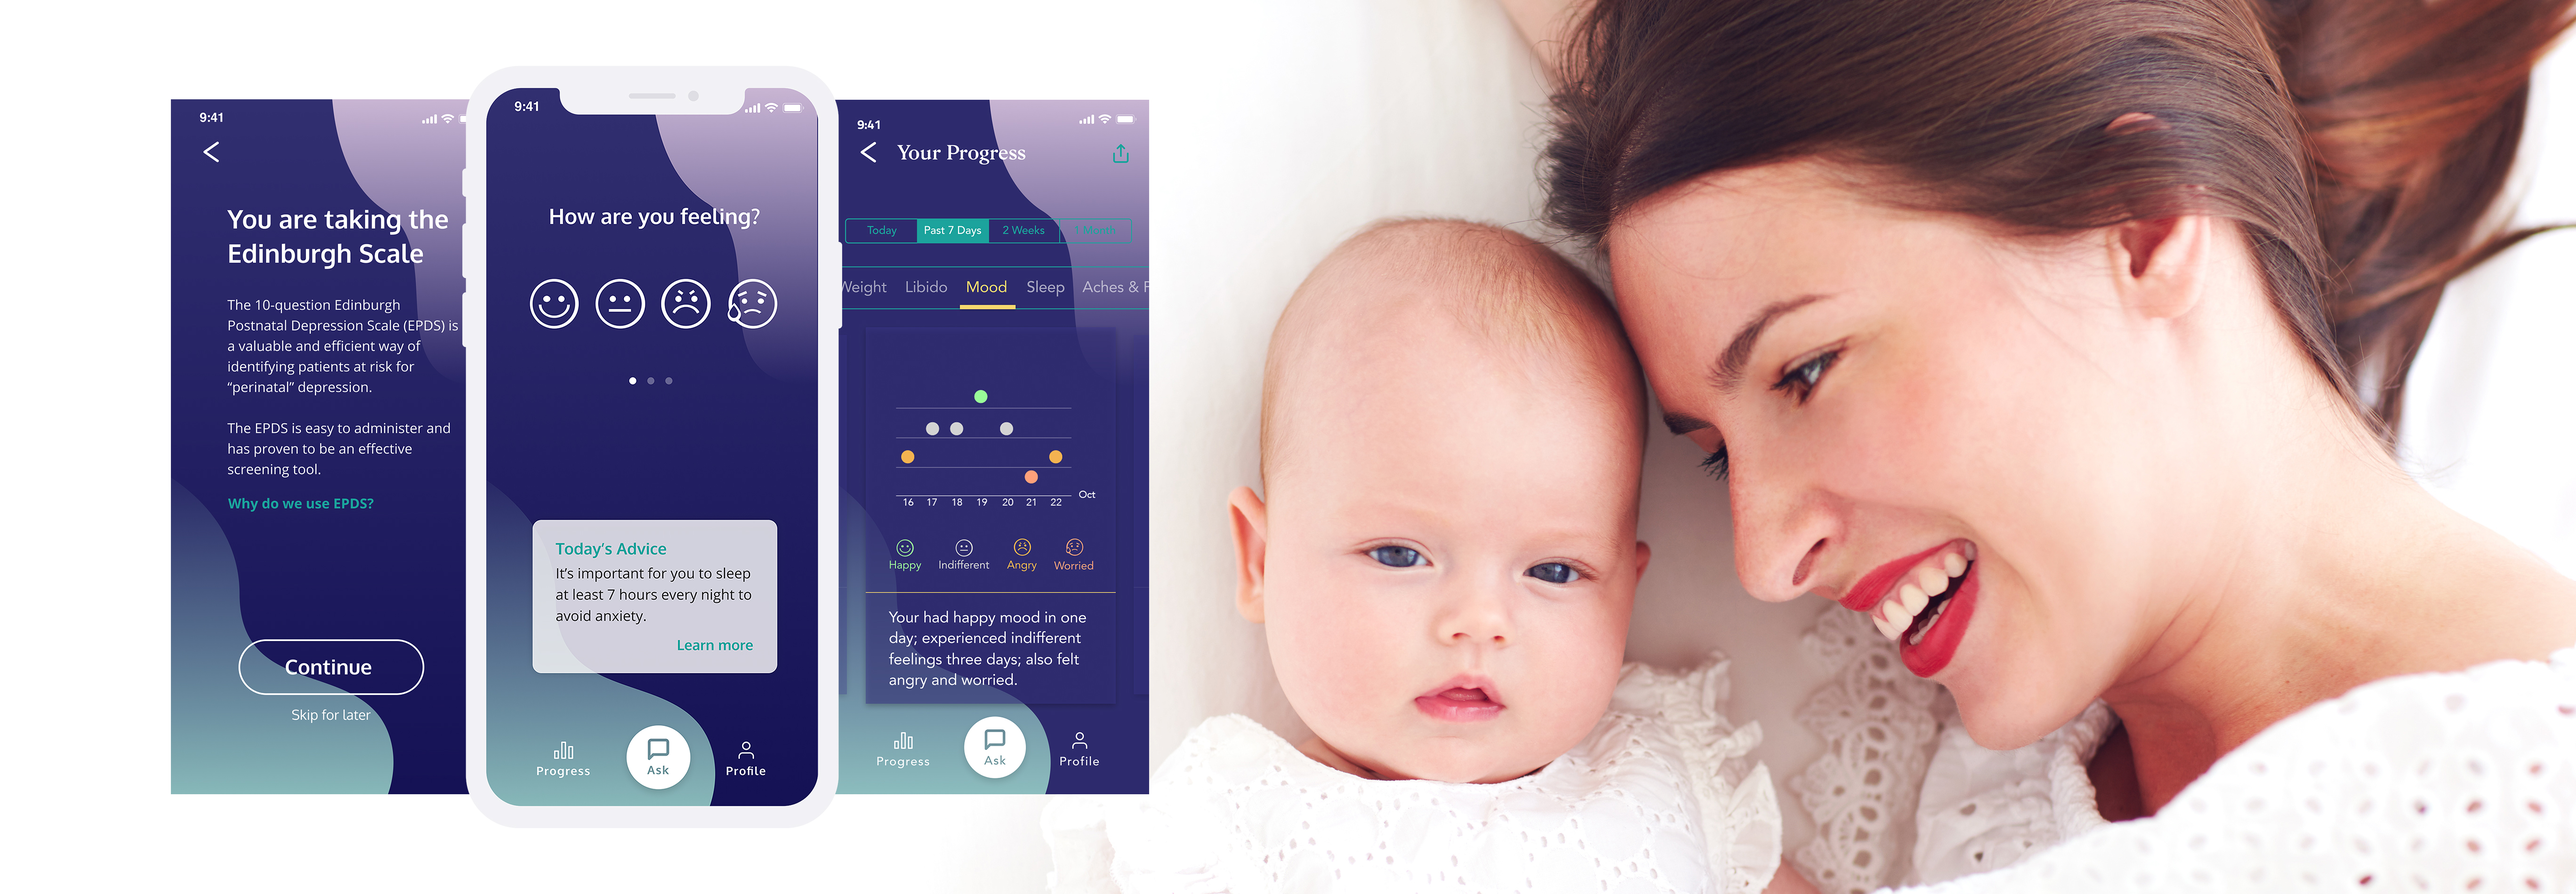
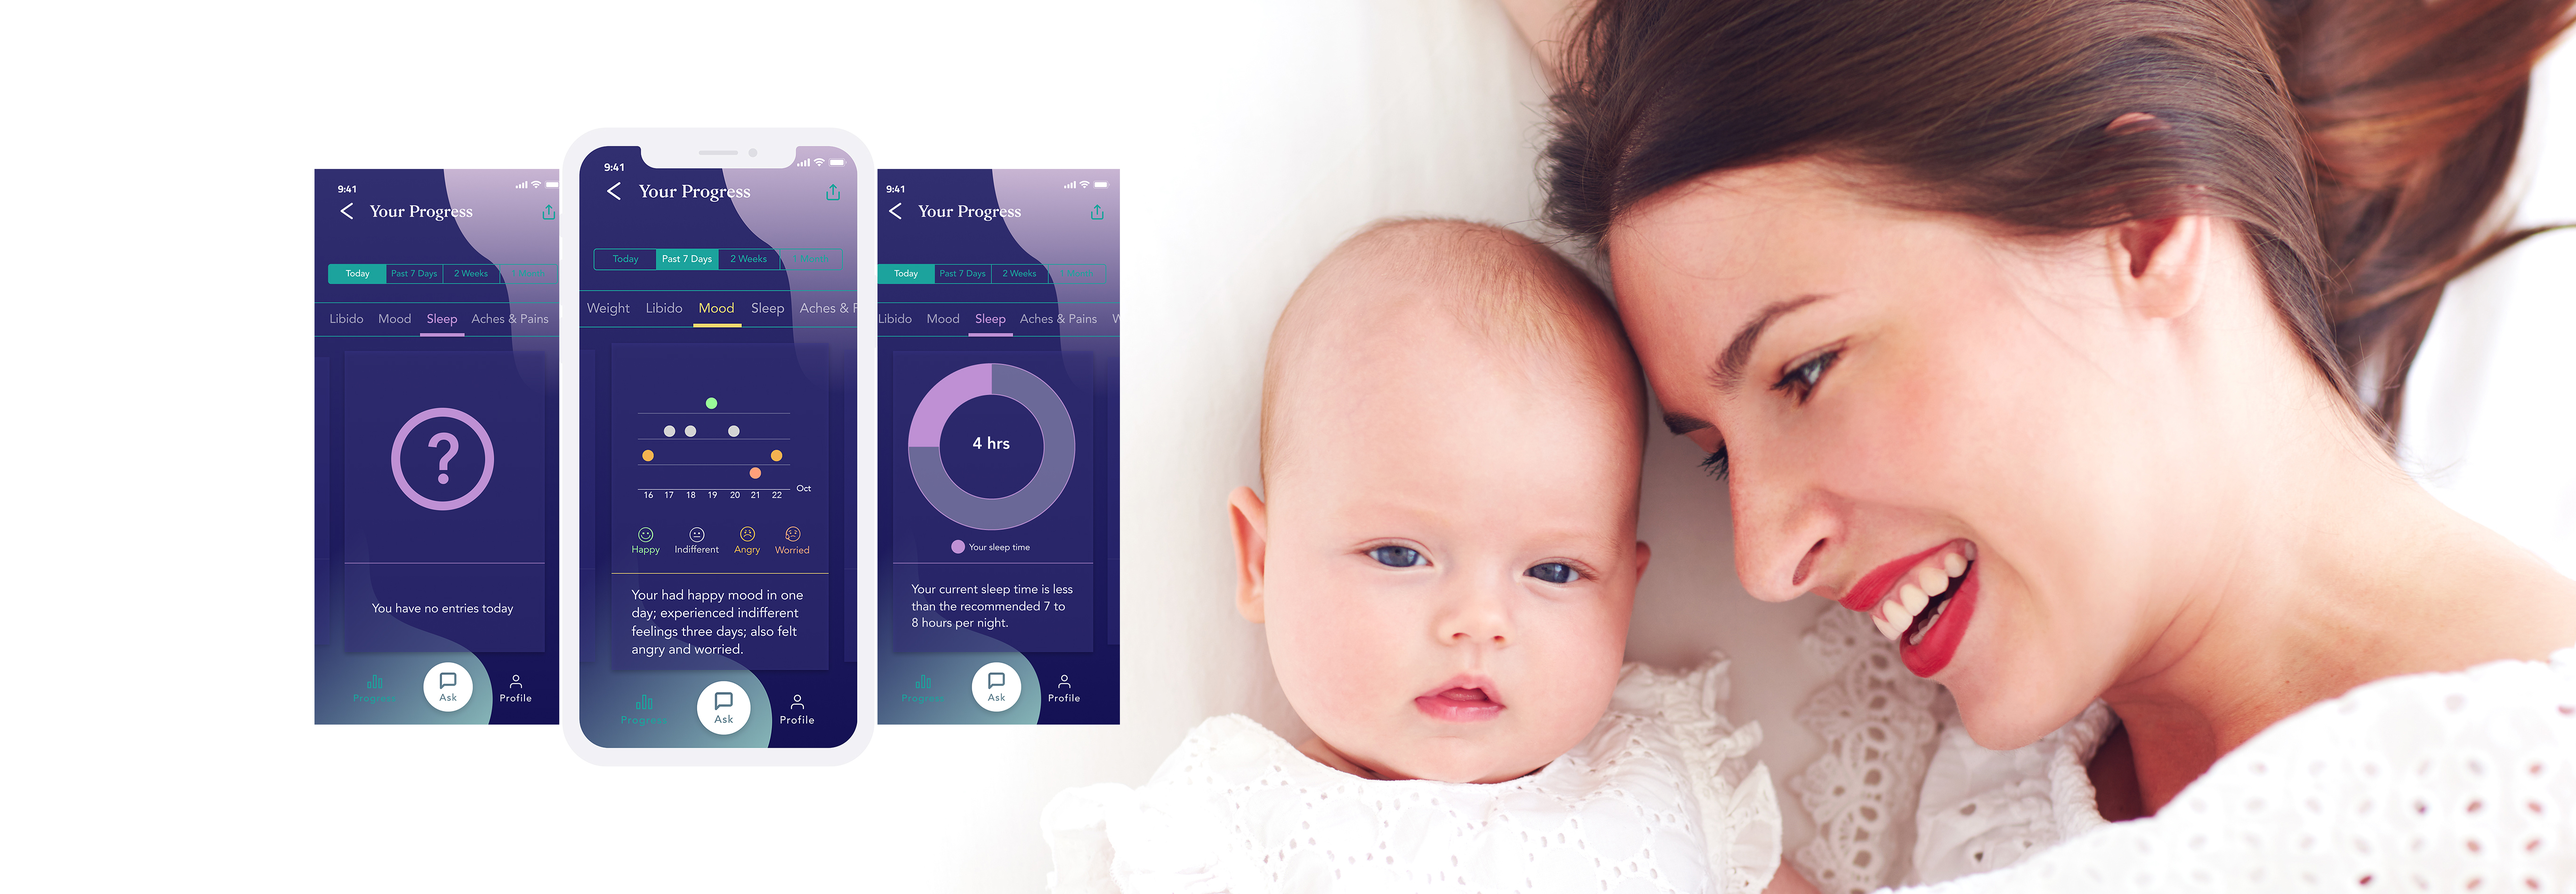
update fovi

Changed region(s): [[0.0625, 0.0932, 0.4688, 0.9005]]

diff --git a/Portfolio/Fovi_health/index.html b/Portfolio/Fovi_health/index.html
@@ -105,7 +105,7 @@
                         <ul>
                             <li>Led user research data analysis and synthesis.</li>
                             <li>Collectively ideated the design solutions.</li>
-                            <li>Designed the progress flow.</li>
+                            <li>Designed the progress flow; created pixel-perfect mockups for this flow.</li>
                             <li>Organized communication with client.</li>
                         </ul>
                     </div>
@@ -164,6 +164,32 @@
                     </ol>
                     <div class="space"></div>
                     <h3>Wireframes For The Progress Flow</h3>
+                    <p>Wireframes of the progress flow was created to present how I incorporated the design solutions into user interface and user interaction with the mobile app.</p>
+                    <img id="wireframe_progress" src="images/wireframing_progress.png" alt="wireframes for the progress flow" width="850" height="500">
+                    <div class="row">
+                        <div class="col-xl-5">
+                            <h4>An Iteration</h4>
+                            <div id="progress_likes">
+                                <h5>What The Client Likes</h5>
+                                <div id="likes_green_fovi"></div>
+                                <p>The carousel provides the user a nice experience to flip through the progress of different symptoms quickly.</p>
+                            </div>
+                            <div id="progress_tobeImproved">
+                                <h5>What Need To Be Improved</h5>
+                                <div id="needimprove_red_fovi"></div>
+                                <p>The symptoms may need to be clustered; the interface can be made cleaner and simpler with a focus on the progress data visualization.</p>
+                            </div>
+                            
+                        </div>
+                        <div class="col-xl-7">
+                            <img id="progress_iteration" src="images/wireframing_progress_v2.png" alt="iteration of the progress flow" width="470" height="512">
+                        </div>
+                    </div>
+                    <div class="space"></div>
+                    <h3>Final Design &amp; Prototype For The Progress Flow</h3>
+                    
+                   
+                  
                     
                     
                     

diff --git a/CSS/style.css b/CSS/style.css
@@ -3563,6 +3563,51 @@ iframe {
     margin-top: 20px;
 }
 
+#wireframe_progress {
+    margin-left: 118px;
+    margin-top: 20px;
+}
+
+#progress_iteration {
+    margin-left: -25px;
+}
+
+#progress_likes h5, #progress_tobeImproved h5 {
+    font-family: 'Open Sans', sans-serif;
+    font-weight: 600;
+    font-size: 16px;
+    color: #333333;
+    margin-left: 118px;
+    margin-top: 35px;
+    
+}
+
+#progress_likes p, #progress_tobeImproved p {
+    width: 225px;
+}
+
+
+#likes_green_fovi {
+    background-color: #00C853;
+    width: 258px;
+    height: 10px;
+    margin-left: 118px;
+    
+}
+
+#progress_tobeImproved {
+    margin-top: 55px;
+}
+
+
+#needimprove_red_fovi {
+    background-color: #FF4D4D;
+    width: 258px;
+    height: 10px;
+    margin-left: 118px;
+    
+}
+
 
 .coming_soon_fovi {
     background: #9a29b1;

diff --git a/Portfolio/Taskit/index.html b/Portfolio/Taskit/index.html
@@ -165,7 +165,7 @@
                     <p>After showing the first version of wireframing to my client, they provided the feedback as follows:</p>
                     <div id="feedbacks_v1" class="row">
                         <div class="col-xl-5">
-                            <h4>What The Client Like</h4>
+                            <h4>What The Client Likes</h4>
                             <div id="likes_green"></div>
                             <ul>
                                 <li>The Login + Sign Up flow is simple. Also, it provides login options via popular social media accounts.</li>
